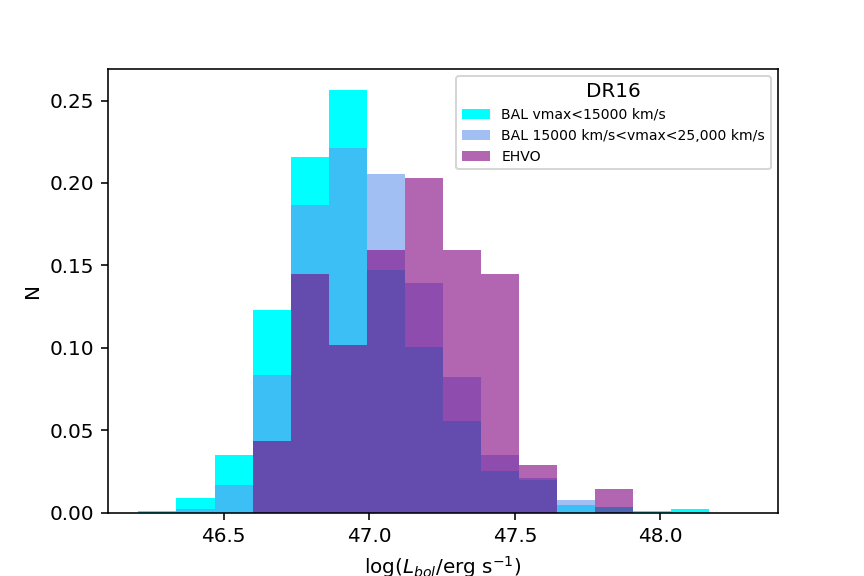
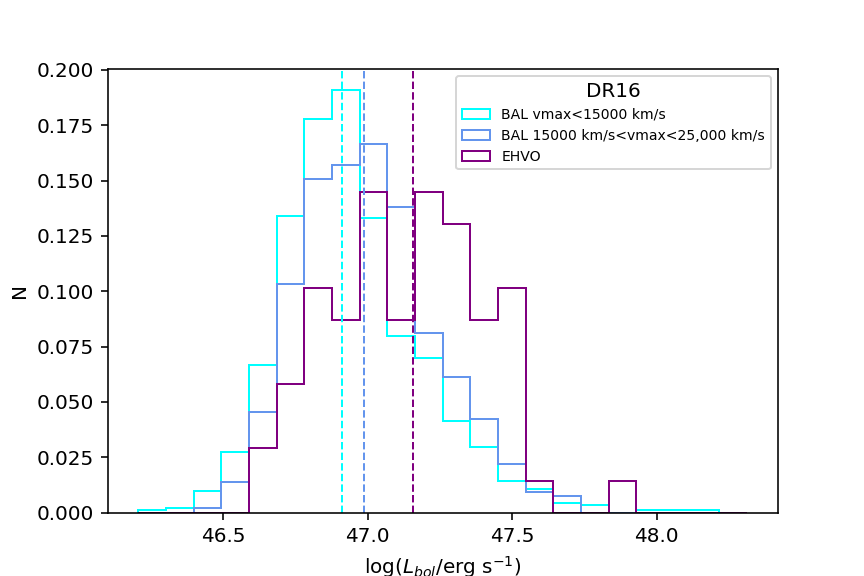
anna & liliana .py updates/changes

diff --git a/CROSS_CORRELATION/Liliana_histogram.py b/CROSS_CORRELATION/Liliana_histogram.py
@@ -32,8 +32,8 @@ EHVO_value = 42_000
 #       EHVO min median - 38,000  EHVO max median - 42,000
 
 #display median lines?
-#med_lines = 'yes'
-med_lines = 'no'
+med_lines = 'yes'
+#med_lines = 'no'
 
 # colors
 bal_lowv_color = 'aqua'
@@ -80,16 +80,16 @@ dfRPA_9 = pd.read_csv(infoRankineparent_DR9, header=None)
 dfRHV_9 = pd.read_csv(infoRankineEHVO_DR9, header=0)
 
 #DR16............................................
-bi_bi0_DR16 = dfRPA[dfRPA.columns[10]].to_numpy()
-bi_vmax_DR16 = dfRPA[dfRPA.columns[11]].to_numpy()
-bi_vmin_DR16 = dfRPA[dfRPA.columns[12]].to_numpy()
-SNR_DR16 = dfRPA[dfRPA.columns[15]].to_numpy()
+bi_bi0_DR16 = dfRPA[dfRPA.columns[10]].to_numpy() #BI_BI0
+bi_vmax_DR16 = dfRPA[dfRPA.columns[11]].to_numpy() #BI_vmax0
+bi_vmin_DR16 = dfRPA[dfRPA.columns[12]].to_numpy() #BI_vmin0
+SNR_DR16 = dfRPA[dfRPA.columns[15]].to_numpy() #SNR0
 
-mbh_values_DR16 = dfRPA[dfRPA.columns[16]].to_numpy()
-lbol_values_DR16 = dfRPA[dfRPA.columns[17]].to_numpy()
-redd_values_DR16 = dfRPA[dfRPA.columns[18]].to_numpy()
+mbh_values_DR16 = dfRPA[dfRPA.columns[16]].to_numpy() #log_MBH_ran0
+lbol_values_DR16 = dfRPA[dfRPA.columns[17]].to_numpy() #log_lbol_Ran0
+redd_values_DR16 = dfRPA[dfRPA.columns[18]].to_numpy() #log_Redd_Ran0
 
-z_DR16 = dfRPA[dfRPA.columns[4]].to_numpy()
+z_DR16 = dfRPA[dfRPA.columns[4]].to_numpy() #Z0 (redshift)
 
      #for EHVOs
 EHVO_mbh_values_DR16 = dfRHV[dfRHV.columns[16]].to_numpy()
@@ -249,25 +249,26 @@ bin_redd = np.arange(min(min(redd_values), min(EHVO_redd_values)), max(max(redd_
 #histogram 1 ..................
 if DisplayHistogram1 == "y":
   weightslbol_bal_lowv = [np.ones_like(lbol_bal_lowv)/float(len(lbol_bal_lowv))]
-  plt.hist(lbol_bal_lowv, bin_lbol, weights = weightslbol_bal_lowv, label = 'BAL '+ str(text_v) + '<'+ str(BAL_value) + ' km/s', color = bal_lowv_color, alpha = 1,)
+  plt.hist(lbol_bal_lowv, bin_lbolalt, weights = weightslbol_bal_lowv, histtype = 'step', label = 'BAL '+ str(text_v) + '<'+ str(BAL_value) + ' km/s', color = bal_lowv_color, alpha = 1,)
 
   weightslbol_bal_highv = [np.ones_like(lbol_bal_highv)/float(len(lbol_bal_highv))]
-  plt.hist(lbol_bal_highv, bin_lbol, weights = weightslbol_bal_highv, label = 'BAL '+ str(BAL_value) + ' km/s<'+ str(text_v) +'<25,000 km/s', color = bal_highv_color,alpha = 0.6,)
+  plt.hist(lbol_bal_highv, bin_lbolalt, weights = weightslbol_bal_highv, histtype = 'step', label = 'BAL '+ str(BAL_value) + ' km/s<'+ str(text_v) +'<25,000 km/s', color = bal_highv_color,alpha = 1,)
 
   weightslbol_EHVO_lowv = [np.ones_like(lbol_EHVO_lowv)/float(len(lbol_EHVO_lowv))]
-  #plt.hist(lbol_EHVO_lowv, bin_lbol, weights = weightslbol_EHVO_lowv, label = 'EHVO 30,000 km/s<'+ str(text_v) +'<'+ str(EHVO_value) + ' km/s', color = EHVO_lowv_color, alpha=0.8,)
+  #plt.hist(lbol_EHVO_lowv, bin_lbol, weights = weightslbol_EHVO_lowv, histtype = 'step', label = 'EHVO 30,000 km/s<'+ str(text_v) +'<'+ str(EHVO_value) + ' km/s', color = EHVO_lowv_color, alpha=0.8,)
 
   weightslbol_EHVO_highv = [np.ones_like(lbol_EHVO_highv)/float(len(lbol_EHVO_highv))]
-  #plt.hist(lbol_EHVO_highv, bin_lbol, weights = weightslbol_EHVO_highv, label = 'EHVO '+ str(text_v) +'>'+ str(EHVO_value) +' km/s', color = EHVO_highv_color, alpha = 0.6,)
+  #plt.hist(lbol_EHVO_highv, bin_lbol, weights = weightslbol_EHVO_highv, histtype = 'step', label = 'EHVO '+ str(text_v) +'>'+ str(EHVO_value) +' km/s', color = EHVO_highv_color, alpha = 0.6,)
 
   weightslbol_EHVO = [np.ones_like(EHVO_lbol_values)/float(len(EHVO_lbol_values))]
-  plt.hist(EHVO_lbol_values,bin_lbol, weights = weightslbol_EHVO, label = 'EHVO', color = EHVO_highv_color, alpha = 0.6,)
+  plt.hist(EHVO_lbol_values,bin_lbolalt, weights = weightslbol_EHVO, histtype = 'step', label = 'EHVO', color = EHVO_highv_color, alpha = 1,)
   
   if med_lines == 'yes':
-    plt.axvline(x = median(lbol_bal_lowv), color='aqua', linestyle='dashed', linewidth=2)
-    plt.axvline(x = median(lbol_bal_highv), color='cornflowerblue', linestyle='dashed', linewidth=2)
-    plt.axvline(x = median(lbol_EHVO_lowv), color='plum', linestyle='dashed', linewidth=2)
-    plt.axvline(x = median(lbol_EHVO_highv), color='purple', linestyle='dashed', linewidth=2)
+    plt.axvline(x = median(lbol_bal_lowv), color='aqua', linestyle='dashed', linewidth=1)
+    plt.axvline(x = median(lbol_bal_highv), color='cornflowerblue', linestyle='dashed', linewidth=1)
+    #plt.axvline(x = median(lbol_EHVO_lowv), color='plum', linestyle='dashed', linewidth=2)
+    #plt.axvline(x = median(lbol_EHVO_highv), color='purple', linestyle='dashed', linewidth=2)
+    plt.axvline(x = median(EHVO_lbol_values), color = 'purple', linestyle= 'dashed', linewidth=1)
 
   plt.xlabel('log($L_{bol}$/erg s$^{-1}$)')
   plt.ylabel('N')
@@ -279,19 +280,19 @@ if DisplayHistogram1 == "y":
 #histogram 2 ......................
 if DisplayHistogram2 == "y":
   weights_mbh_bal_lowv = [np.ones_like(mbh_bal_lowv)/float(len(mbh_bal_lowv))]
-  plt.hist(mbh_bal_lowv, bins = bin_mbh, weights = weights_mbh_bal_lowv, label = 'BAL '+ str(text_v) + '<'+ str(BAL_value) + ' km/s', color = bal_lowv_color, alpha=1 )
+  plt.hist(mbh_bal_lowv, bins = bin_mbh, weights = weights_mbh_bal_lowv, histtype = 'step', label = 'BAL '+ str(text_v) + '<'+ str(BAL_value) + ' km/s', color = bal_lowv_color, alpha=1 )
 
   weights_mbh_bal_highv = [np.ones_like(mbh_bal_highv)/float(len(mbh_bal_highv))]
-  plt.hist(mbh_bal_highv, bins = bin_mbh, weights = weights_mbh_bal_highv, label = 'BAL '+ str(BAL_value) + ' km/s<'+ str(text_v) +'<25,000 km/s', color = bal_highv_color, alpha=0.7)
+  plt.hist(mbh_bal_highv, bins = bin_mbh, weights = weights_mbh_bal_highv, histtype = 'step', label = 'BAL '+ str(BAL_value) + ' km/s<'+ str(text_v) +'<25,000 km/s', color = bal_highv_color, alpha=0.7)
 
   weights_mbh_EHVO_lowv = [np.ones_like(mbh_EHVO_lowv)/float(len(mbh_EHVO_lowv))]
-  plt.hist(mbh_EHVO_lowv, bins = bin_mbh, weights = weights_mbh_EHVO_lowv, label = 'EHVO 30,000 km/s<'+ str(text_v) +'<'+ str(EHVO_value) + ' km/s', color = EHVO_lowv_color, alpha=0.9,)
+  plt.hist(mbh_EHVO_lowv, bins = bin_mbh, weights = weights_mbh_EHVO_lowv, histtype = 'step', label = 'EHVO 30,000 km/s<'+ str(text_v) +'<'+ str(EHVO_value) + ' km/s', color = EHVO_lowv_color, alpha=0.9,)
 
   weights_mbh_EHVO_highv = [np.ones_like(mbh_EHVO_highv)/float(len(mbh_EHVO_highv))]
-  plt.hist(mbh_EHVO_highv, bins = bin_mbh, weights = weights_mbh_EHVO_highv, label = 'EHVO '+ str(text_v) +'>'+ str(EHVO_value) +' km/s', color = EHVO_highv_color, alpha = 0.6,)
+  #plt.hist(mbh_EHVO_highv, bins = bin_mbh, weights = weights_mbh_EHVO_highv, histtype = 'step', label = 'EHVO '+ str(text_v) +'>'+ str(EHVO_value) +' km/s', color = EHVO_highv_color, alpha = 0.6,)
 
   #weights_mbh_EHVO_highv = [np.ones_like(mbh_EHVO_highv)/float(len(mbh_EHVO_highv))]
-  #plt.hist(mbh_EHVO_highv, bins = bin_mbh, weights = weights_mbh_EHVO_highv, label = 'EHVO '+ str(text_v) +'>'+ str(EHVO_value) +' km/s', color = EHVO_highv_color, alpha = 0.6,)
+  #plt.hist(mbh_EHVO_highv, bins = bin_mbh, weights = weights_mbh_EHVO_highv, histtype = 'step', label = 'EHVO '+ str(text_v) +'>'+ str(EHVO_value) +' km/s', color = EHVO_highv_color, alpha = 0.6,)
 
   if med_lines == 'yes':
     plt.axvline(x = median(mbh_bal_lowv), color='aqua', linestyle='dashed', linewidth=2)

diff --git a/CROSS_CORRELATION/Anna_graphs.py b/CROSS_CORRELATION/Anna_graphs.py
@@ -92,22 +92,26 @@ xqr_bs_both = np.concatenate([xqr_bs_Parent, xqr_bs_EHVO])
 
 ###DR16###
 #for parent sample
-Parentin16Rank_mbh=dfRPA[dfRPA.columns[16]].to_numpy()
-Parentin16Rank_lbol=dfRPA[dfRPA.columns[17]].to_numpy()
-Parentin16Rank_redd=dfRPA[dfRPA.columns[18]].to_numpy()
-Parentin16Rank_CivBlue=dfRPA[dfRPA.columns[5]].to_numpy()
-Parentin16Rank_CivEW=dfRPA[dfRPA.columns[6]].to_numpy()
-Parentin16Rank_HeIIEW=dfRPA[dfRPA.columns[7]].to_numpy()
-
+Parentin16Rank_mbh =dfRPA[dfRPA.columns[16]].to_numpy()
+Parentin16Rank_lbol =dfRPA[dfRPA.columns[17]].to_numpy()
+Parentin16Rank_redd =dfRPA[dfRPA.columns[18]].to_numpy()
+Parentin16Rank_CivBlue =dfRPA[dfRPA.columns[5]].to_numpy()
+Parentin16Rank_CivEW =dfRPA[dfRPA.columns[6]].to_numpy()
+Parentin16Rank_HeIIEW =dfRPA[dfRPA.columns[7]].to_numpy()
+Parentin16Rank_BI_BI =dfRPA[dfRPA.columns[10]].to_numpy()
+Parentin16Rank_BI_vmax =dfRPA[dfRPA.columns[11]].to_numpy()
+Parentin16Rank_BI_vmin =dfRPA[dfRPA.columns[12]].to_numpy()
 
 #for EHVOs
-EHVOin16Rank_mbh=dfRHV[dfRHV.columns[16]].to_numpy()
-EHVOin16Rank_lbol=dfRHV[dfRHV.columns[17]].to_numpy()
-EHVOin16Rank_redd=dfRHV[dfRHV.columns[18]].to_numpy()
-EHVOin16Rank_CivBlue=dfRHV[dfRHV.columns[5]].to_numpy()
-EHVOin16Rank_CivEW=dfRHV[dfRHV.columns[6]].to_numpy()
-EHVOin16Rank_HeIIEW=dfRHV[dfRHV.columns[7]].to_numpy()
-
+EHVOin16Rank_mbh =dfRHV[dfRHV.columns[16]].to_numpy()
+EHVOin16Rank_lbol =dfRHV[dfRHV.columns[17]].to_numpy()
+EHVOin16Rank_redd =dfRHV[dfRHV.columns[18]].to_numpy()
+EHVOin16Rank_CivBlue =dfRHV[dfRHV.columns[5]].to_numpy()
+EHVOin16Rank_CivEW =dfRHV[dfRHV.columns[6]].to_numpy()
+EHVOin16Rank_HeIIEW =dfRHV[dfRHV.columns[7]].to_numpy()
+EHVOin16Rank_BI_BI =dfRHV[dfRHV.columns[10]]
+EHVOin16Rank_BI_vmax =dfRHV[dfRHV.columns[11]]
+EHVOin16Rank_BI_vmin =dfRHV[dfRHV.columns[12]]
 
 ###DR9###
 
